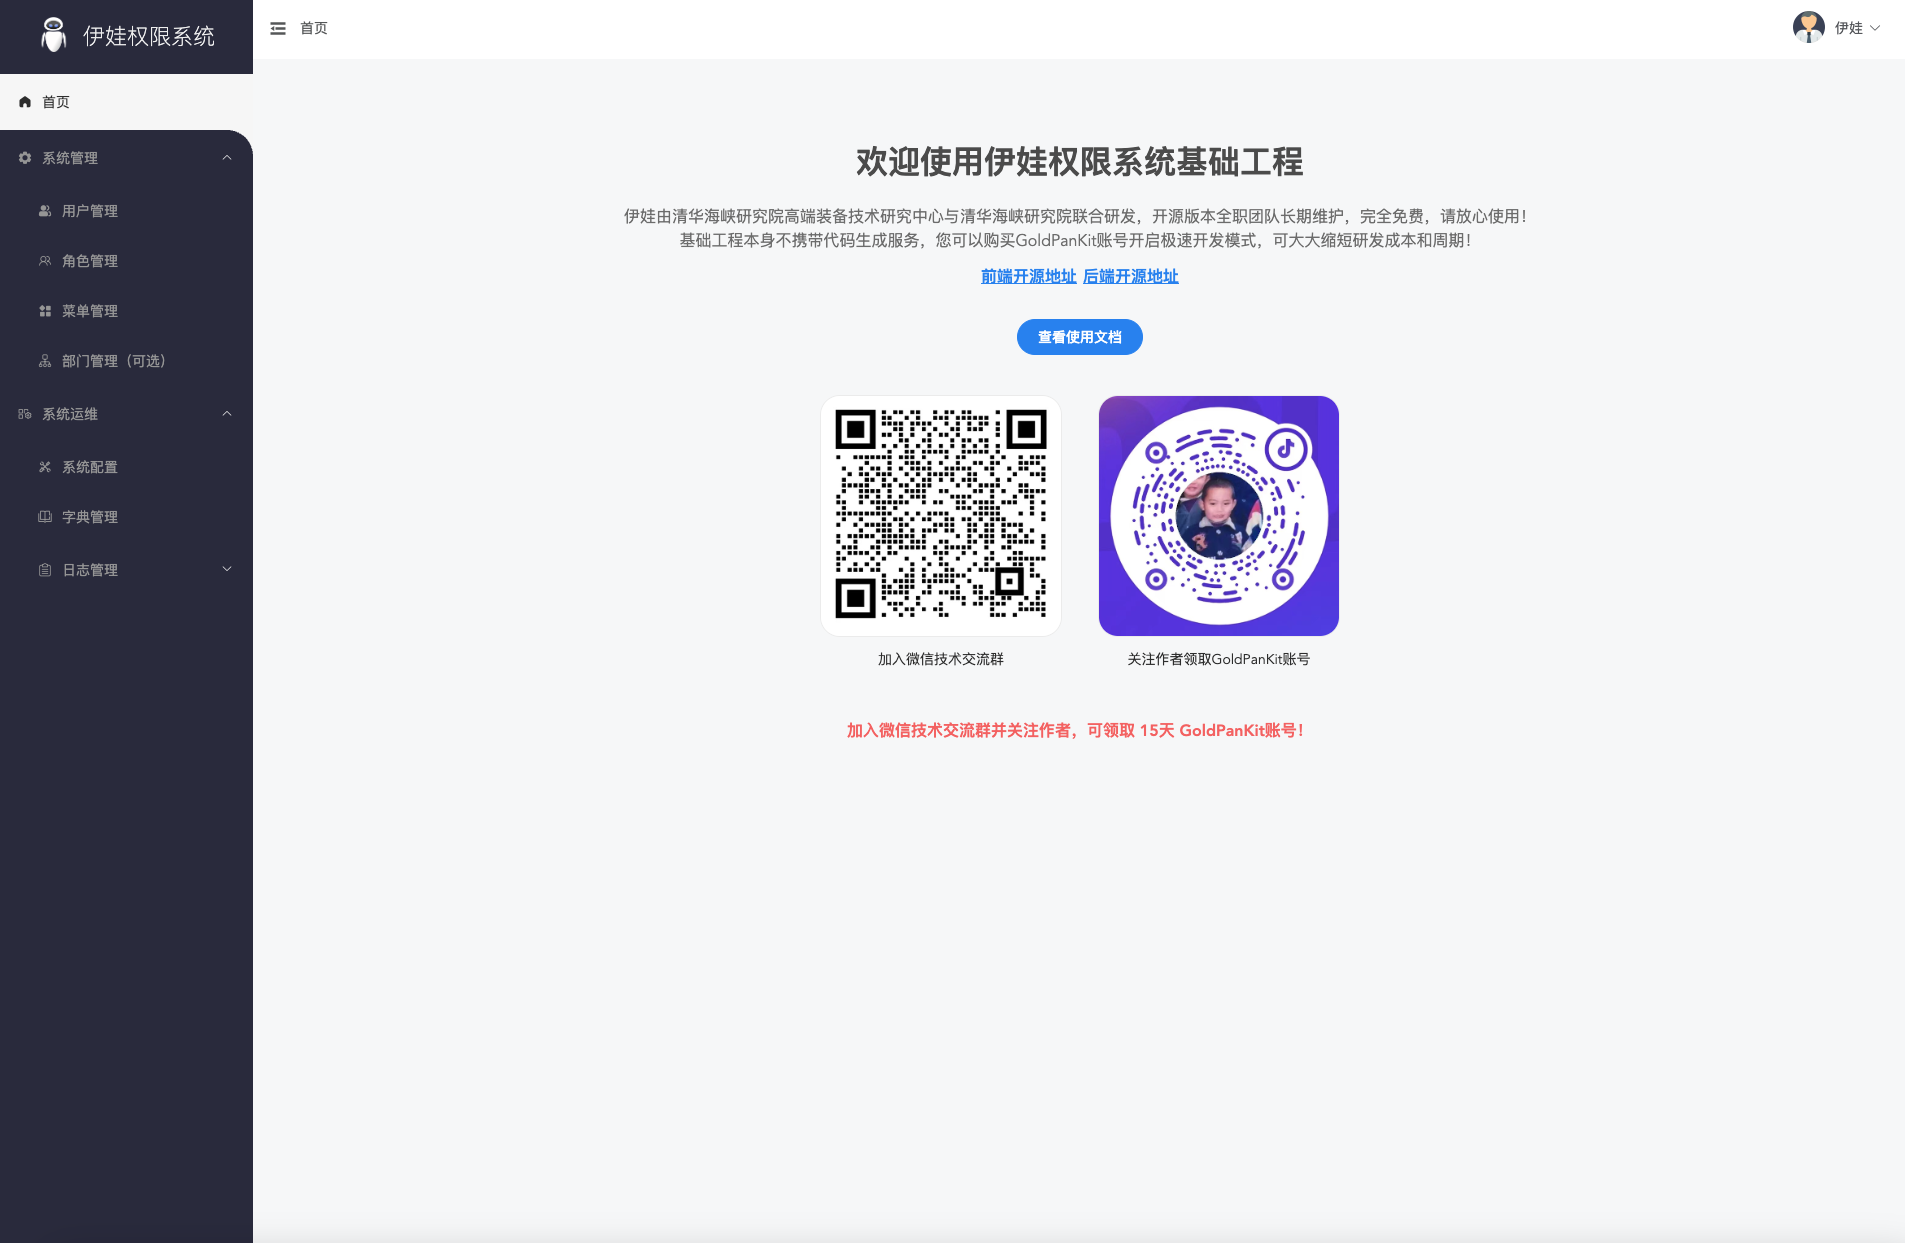
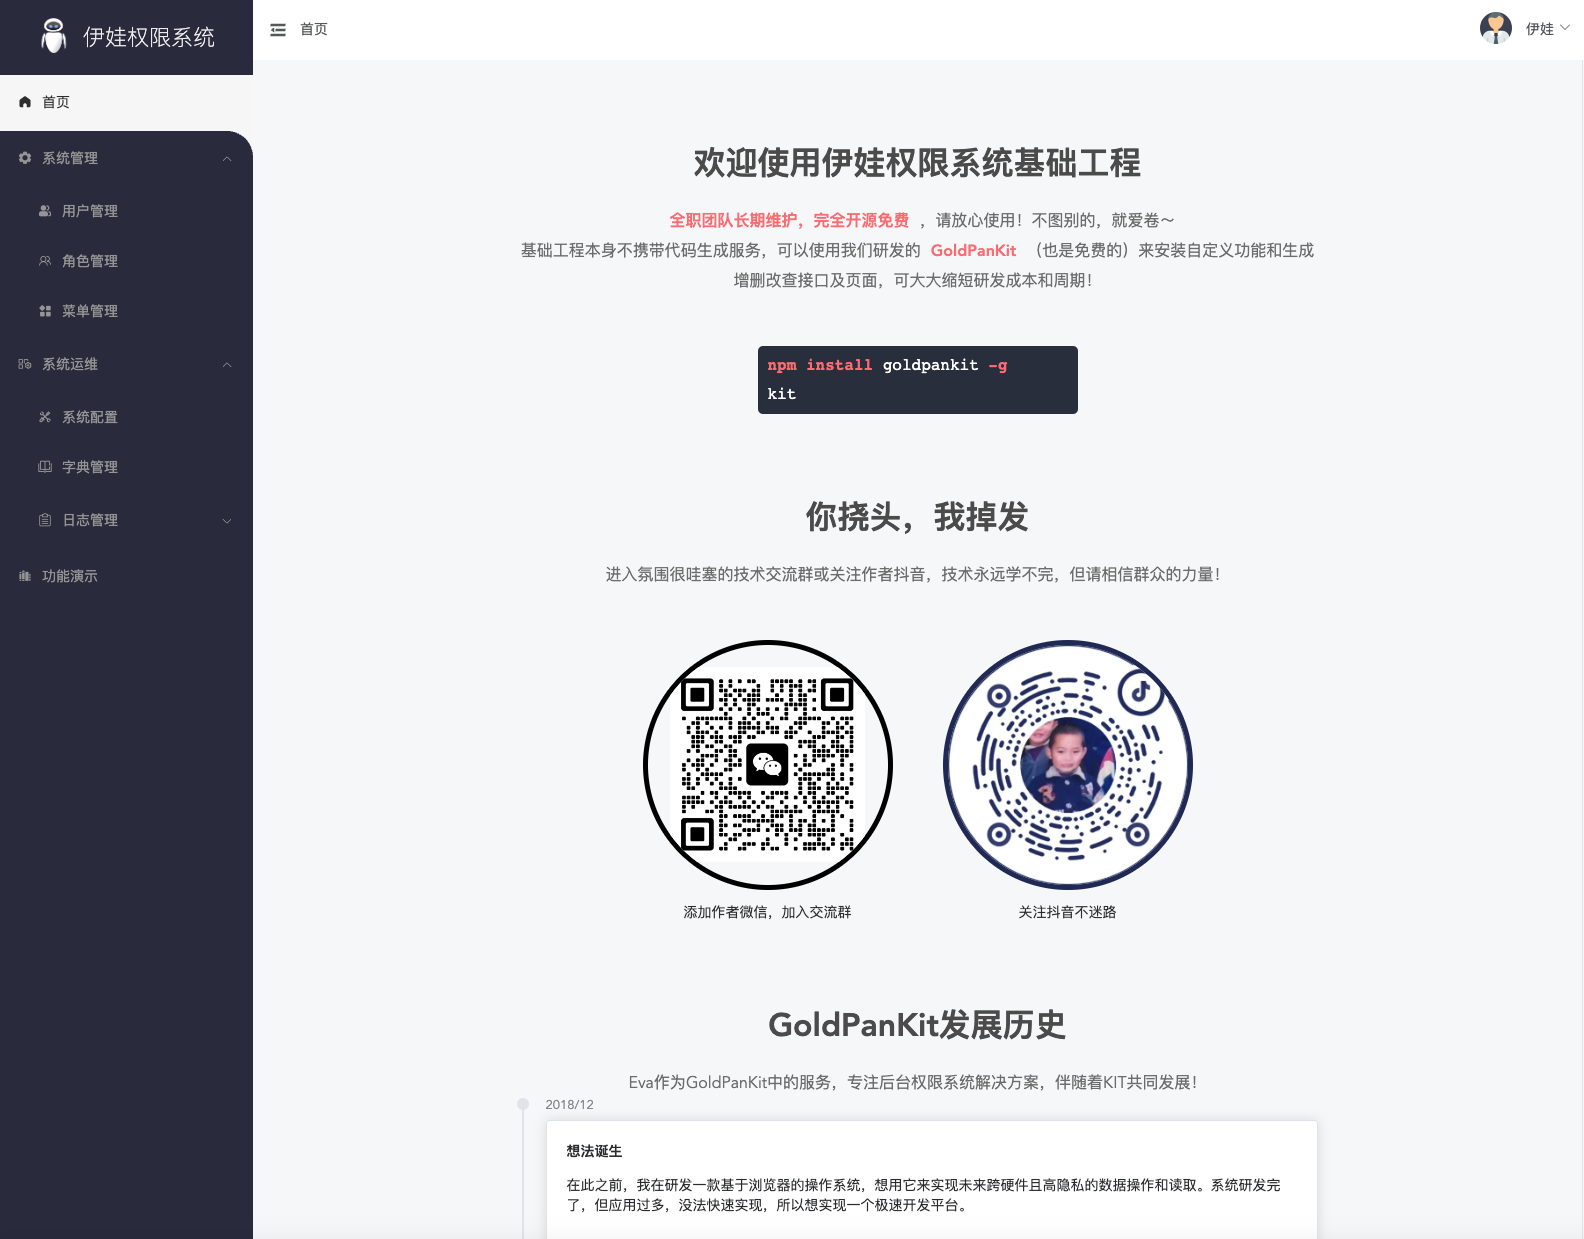
调整README和首页

diff --git a/src/views/index.vue b/src/views/index.vue
@@ -149,17 +149,17 @@ export default {
     &.history-wrap {
       text-align: left;
     }
-  }
-  & > h2 {
-    font-size: 32px;
-    color: #555;
-    margin-bottom: 20px;
-    text-align: center;
-  }
-  & > p {
-    line-height: 30px;
-    margin: 0;
-    text-align: center;
+    & > h2 {
+      font-size: 32px;
+      color: #555;
+      margin-bottom: 20px;
+      text-align: center;
+    }
+    & > p {
+      line-height: 30px;
+      margin: 0;
+      text-align: center;
+    }
   }
   // 使用步骤
   .use-steps {

diff --git a/README.md b/README.md
@@ -1,7 +1,3 @@
-## 基础信息
-
-本权限基础工程由清华海峡院高端装备技术研究中心与清华海峡院联合研发。旨在作为一套标准化的网站后台、内部系统的后端基础工程，可与其他Eva系的前端基础工程自由搭配来完成一整个项目的研发。
-
 ## 技术栈 & 版本信息
 为了更容易让Vue2使用者上手，工程采用选项式开发，未来我们也会提供TS版。具体技术栈如下：
 - 框架：Vue 3.4.21
@@ -24,10 +20,9 @@
 1. 可扩展的功能模块，默认情况下提供了用户管理、角色管理、菜单管理、字典管理、操作日志、登录日志模块，使用GoldPanKit可进一步进行源码级功能模块的扩展，如部门模块等。
 2. 不用担心存在BUG，如果存在BUG，使用GoldPanKit可实现一键升级。
 3. 不用担心存在安全漏洞，如果存在安全漏洞，GoldPanKit会进行提醒并支持一键升级。
-4. 清华团队全职维护，无版权，可放心使用。
-5. 规范化代码 + 详细的代码注释。
-6. 合理封装，经过Eva3 8000+项目的实践经验，进行常用功能合理的封装。
-7. 丰富的插件市场，可使用GoldPanKit进行单表、多表的页面生成。
+4. 规范化代码 + 详细的代码注释。
+5. 合理封装，经过Eva3 8000+项目的实践经验，进行常用功能合理的封装。
+6. 丰富的插件市场，可使用GoldPanKit进行单表、多表的页面生成。
 
 ## 绝对优势
 
